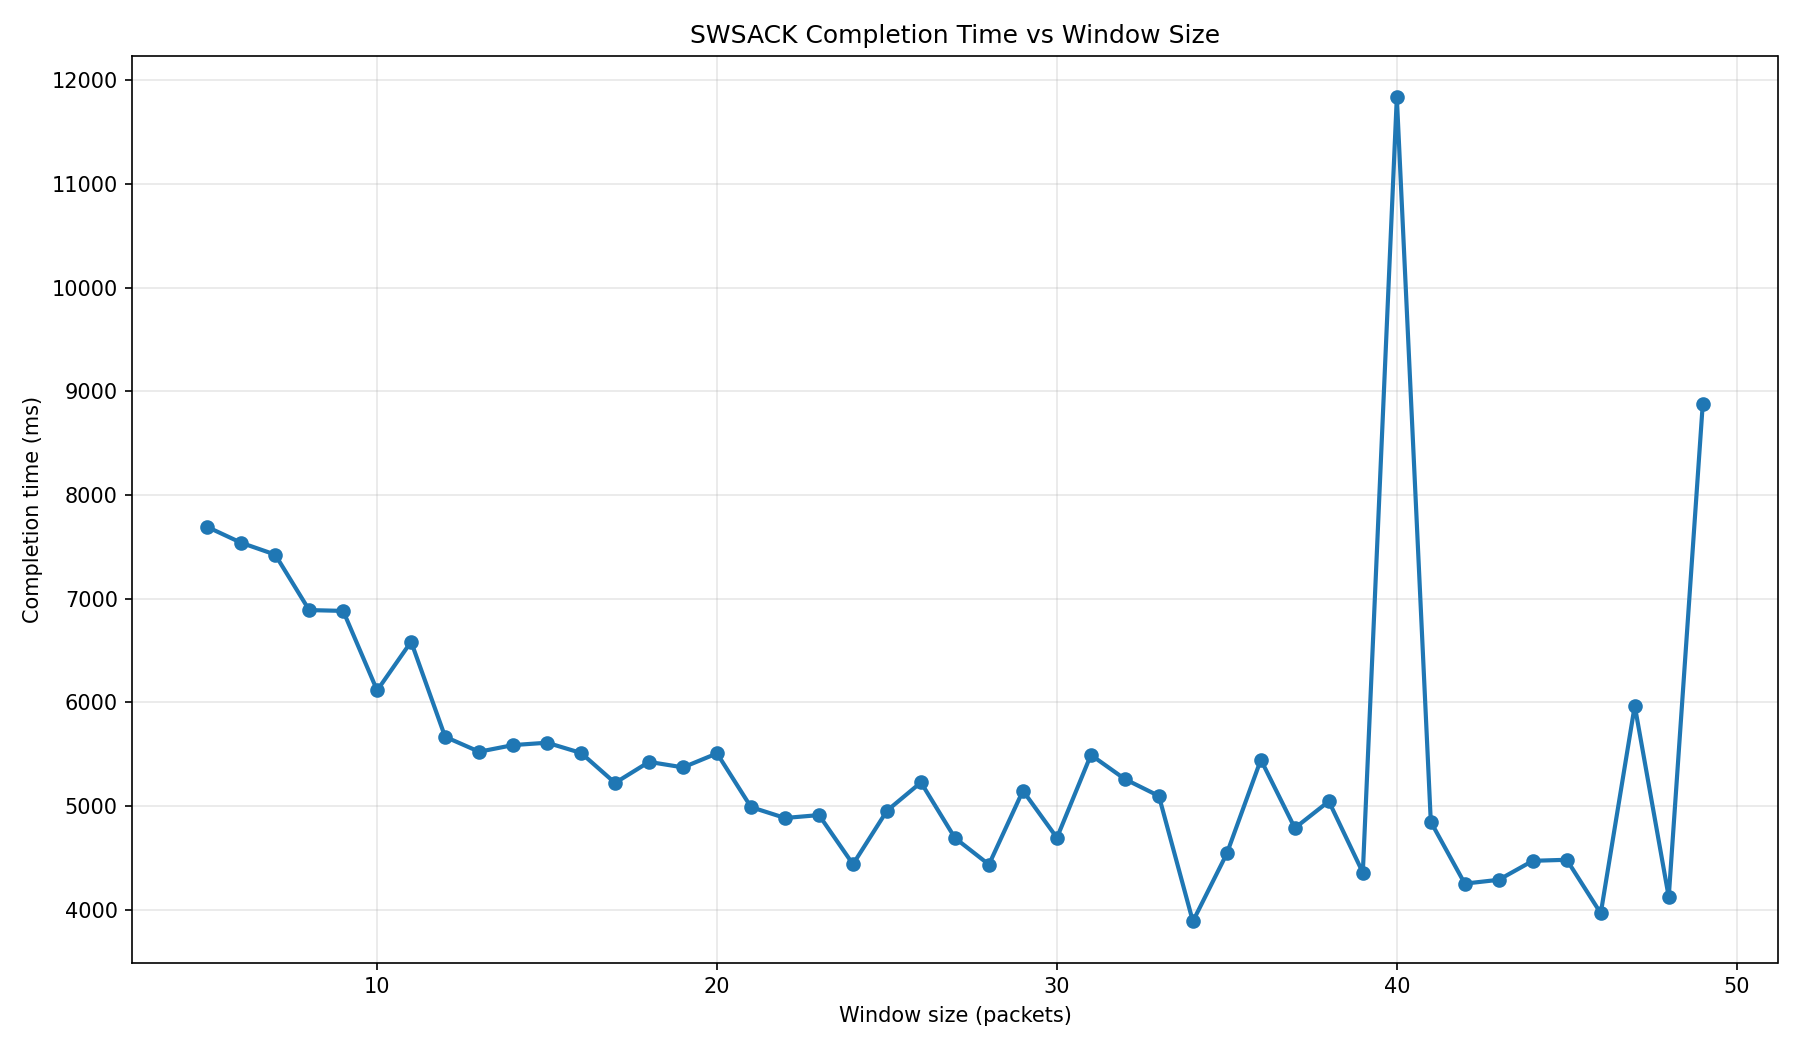
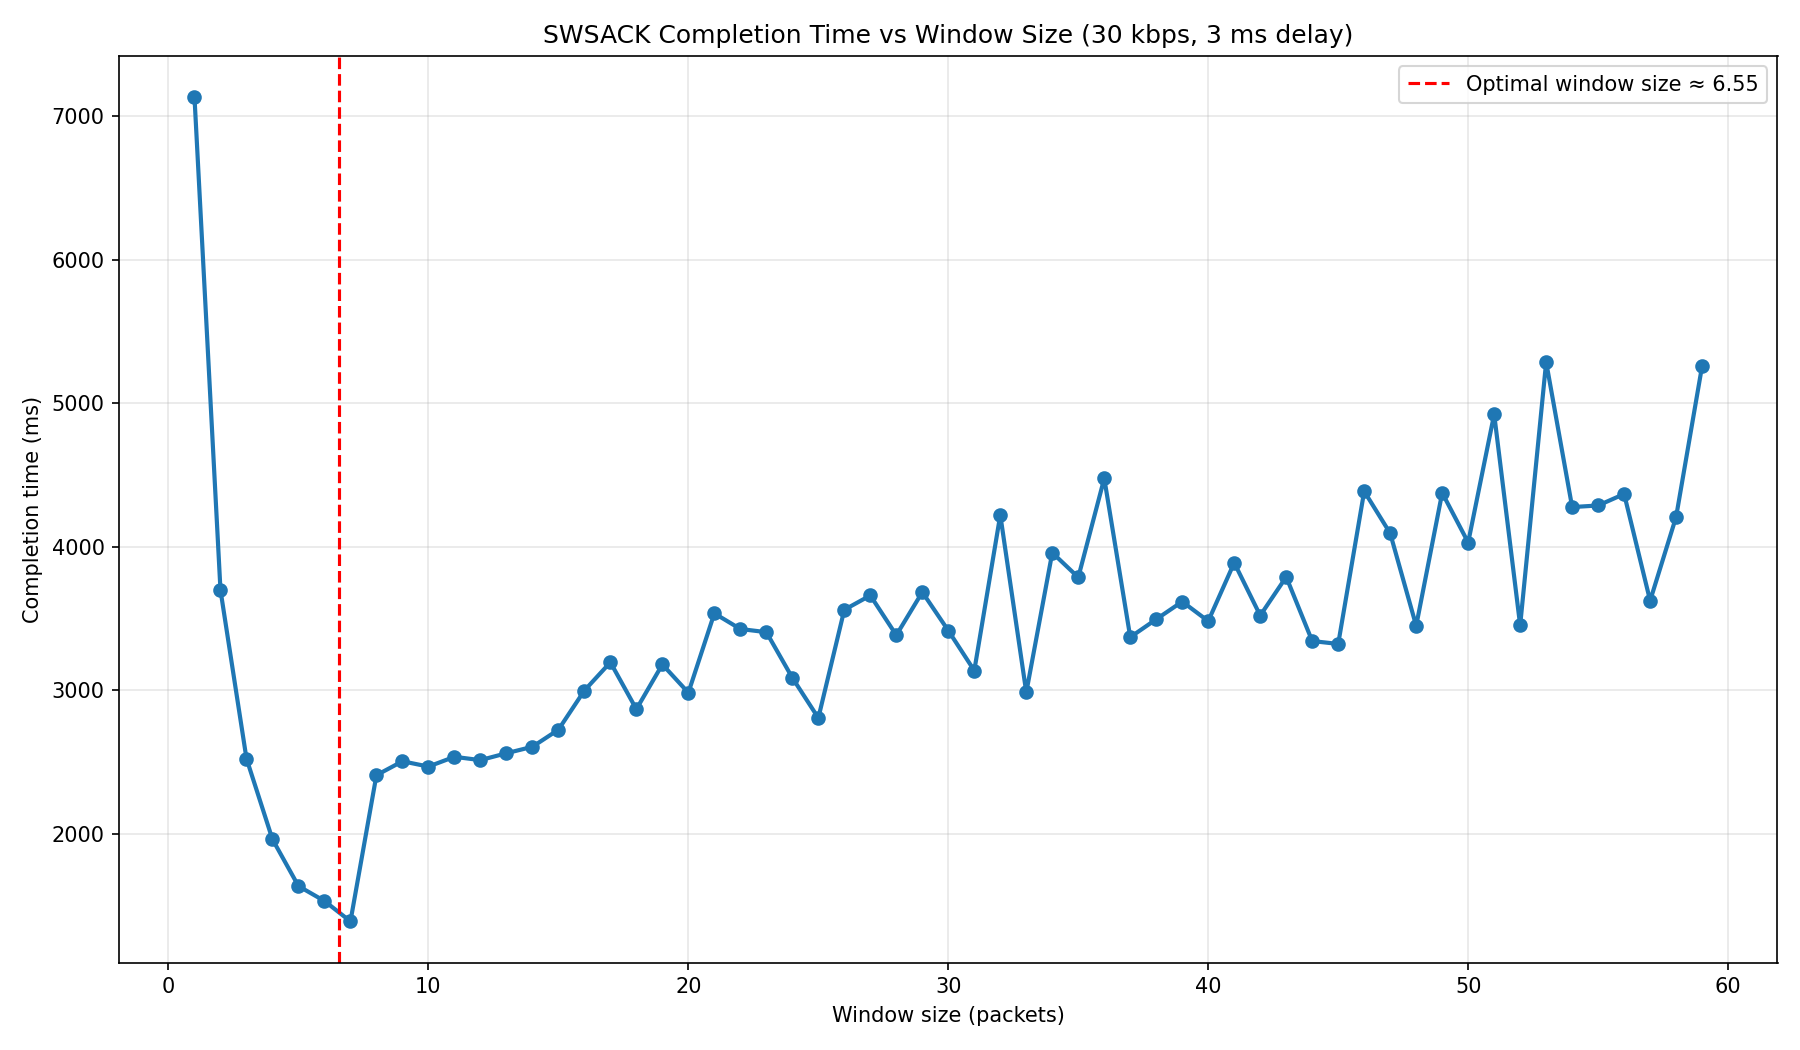
added optimal window size calculation

diff --git a/protocol/sliding_window_sack/window_size_plot.py b/protocol/sliding_window_sack/window_size_plot.py
@@ -1,3 +1,23 @@
+"""
+This file is meant to motivate the next step up from sliding window with 
+selective ack. in particular, it shows that larger window sizes do not 
+necessarily improve performance, and congestion control is needed in 
+some form to over come this. the plot demonstrates that there is a sweet spot
+of window sizes that minimize completion time, where exactly enough packets 
+and acks are on the wire at the same time.
+
+frames are 31 bytes for packets, and 24 bytes for acks, 
+so for one seq we need 55 bytes on the wire
+
+delay = 3 ms
+bit rate = 30KBps = 240B/ms
+so Bandwidth-delay product is 3ms * 240B/ms = 720 bytes
+
+720/55 = 13.09, so the optimal window size is around 13/2 = 6.5 packets
+which can be seen in the plot.
+"""
+
+
 from __future__ import annotations
 
 from contextlib import redirect_stdout
@@ -19,28 +39,22 @@ from protocol.sliding_window_sack.swsack_client import SWSACKClient
 from protocol.sliding_window_sack.swsack_server import SWSACKServer
 
 
-PAYLOAD = (
-    b"Sliding-window SACK demo payload. "
-    b"This should be reconstructed exactly at the client."
-    b"0000000000000000000000000000000000000000000000000000"
-    b"0000000000000000000000000000000000000000000000000000"
-    b"0000000000000000000000000000000000000000000000000000"
-    b"0000000000000000000000000000000000000000000000000000"
-    b"0000000000000000000000000000000000000000000000000000"
-)
+_HEADER = b"Sliding-window SACK demo payload. "
+_CHUNK = b"This should be reconstructed exactly at the client." + b"0" * (52 * 5)
+PAYLOAD = _HEADER + _CHUNK * 4
 
 SEQ_SPACE = 1001
 FRAME_SIZE = 2
 RETRANSMIT_TIMEOUT = 20
-BIT_RATE = 1000 * 8 * 10
+BIT_RATE = 1000 * 8 * 30
 PROPAGATION_DELAY = 3
-DELAY_VARIANCE = 200
-ERROR_RATE = 5
-WINDOW_SIZES = list(range(5, 50, 1))
+DELAY_VARIANCE = 2
+ERROR_RATE = 0
+WINDOW_SIZES = list(range(1, 60, 1))
 PLOT_OUTPUT = Path(__file__).with_name("window_size_completion_time.png")
 
 
-def run_trial(window_size: int, seed: int = 7) -> tuple[int, bool]:
+def run_trial(window_size: int, seed: int = 8) -> tuple[int, bool]:
     sim = NetworkSim(seed=seed, logging=False)
     network = Network(sim)
 
@@ -69,7 +83,7 @@ def run_trial(window_size: int, seed: int = 7) -> tuple[int, bool]:
         propagation_delay=PROPAGATION_DELAY,
         delay_variance=DELAY_VARIANCE,
         error_rate=ERROR_RATE,
-        max_queue_length=25
+        max_queue_length=10
     )
     network.add_channel(channel)
     channel.add_node(server)
@@ -100,13 +114,26 @@ def collect_completion_times(window_sizes: list[int]) -> tuple[list[int], list[i
 
     return completed_sizes, completion_times
 
+def calculate_optimal_window_size() -> float:
+    frame_size = 31
+    ack_size = 24
+    bytes_per_seq = frame_size + ack_size
+
+    bandwidth_delay_product_bytes = PROPAGATION_DELAY * (BIT_RATE / 1000)
+    optimal_window_size = bandwidth_delay_product_bytes / bytes_per_seq
+    return optimal_window_size/2
 
 def plot_completion_times(window_sizes: list[int], completion_times: list[int]) -> None:
+    optimal_window_size = calculate_optimal_window_size()
+
+    
     plt.figure(figsize=(12, 7))
     plt.plot(window_sizes, completion_times, marker="o", linewidth=2, color="#1f77b4")
-    plt.title("SWSACK Completion Time vs Window Size")
+    plt.title(f"SWSACK Completion Time vs Window Size ({BIT_RATE // 8000} kbps, {PROPAGATION_DELAY} ms delay)")
     plt.xlabel("Window size (packets)")
     plt.ylabel("Completion time (ms)")
+    plt.axvline(optimal_window_size, color="red", linestyle="--", label=f"Optimal window size ≈ {optimal_window_size:.2f}")
+    plt.legend()
     plt.grid(True, alpha=0.3)
     plt.tight_layout()
     plt.savefig(PLOT_OUTPUT, dpi=150)

diff --git a/protocol/sliding_window_sack/example_entry.py b/protocol/sliding_window_sack/example_entry.py
@@ -23,6 +23,14 @@ def main():
         b"0000000000000000000000000000000000000000000000000000"
         b"0000000000000000000000000000000000000000000000000000"
         b"0000000000000000000000000000000000000000000000000000"
+        b"0000000000000000000000000000000000000000000000000000"        b"0000000000000000000000000000000000000000000000000000"
+        b"0000000000000000000000000000000000000000000000000000"
+        b"0000000000000000000000000000000000000000000000000000"
+        b"0000000000000000000000000000000000000000000000000000"
+        b"0000000000000000000000000000000000000000000000000000"        b"0000000000000000000000000000000000000000000000000000"
+        b"0000000000000000000000000000000000000000000000000000"
+        b"0000000000000000000000000000000000000000000000000000"
+        b"0000000000000000000000000000000000000000000000000000"
         b"0000000000000000000000000000000000000000000000000000"
     )
 

diff --git a/protocol/sliding_window_sack/swsack_server.py b/protocol/sliding_window_sack/swsack_server.py
@@ -3,7 +3,7 @@ from __future__ import annotations
 from dataclasses import dataclass
 
 from src.node import Node
-from src.packet import Packet
+from src.packet import Packet, packet_length
 
 from .common import SackBlock, decode_sack_payload, encode_sw_payload
 
@@ -136,6 +136,7 @@ class SWSACKServer(Node):
 			src=self.name,
 			dst=self.receiver,
 		)
+		print(f"packet size: {packet_length(packet)} bytes")
 		self.channels[0].send(packet)
 		self.set_timer(self.retransmit_timeout, self.retransmit_timer, seq_num)
 

diff --git a/src/channel.py b/src/channel.py
@@ -51,7 +51,9 @@ class Channel:
       node.channels.append(self)
 
   def send(self, packet: pkt.Packet):
+    
     packet_bytes = pkt.encode_packet(packet)
+    print(f"packet legnth: {len(packet_bytes)} bytes")
 
     if len(self.packet_queue) >= self.max_queue_length: #TODO check byte length of queue instead of packet count
       self._record_drop()

diff --git a/src/packet.py b/src/packet.py
@@ -94,3 +94,9 @@ def strip_checksum(data: bytes) -> bytes:
 
     src, dst, _ = HEADER_STRUCT.unpack(data[:HEADER_LEN])
     return struct.pack("!II", src, dst) + data[HEADER_LEN:]
+
+
+def packet_length(packet: Packet) -> int:
+    return HEADER_LEN + 1 + (
+        len(packet.data) if isinstance(packet.data, bytes) else len(packet.data)
+    )
